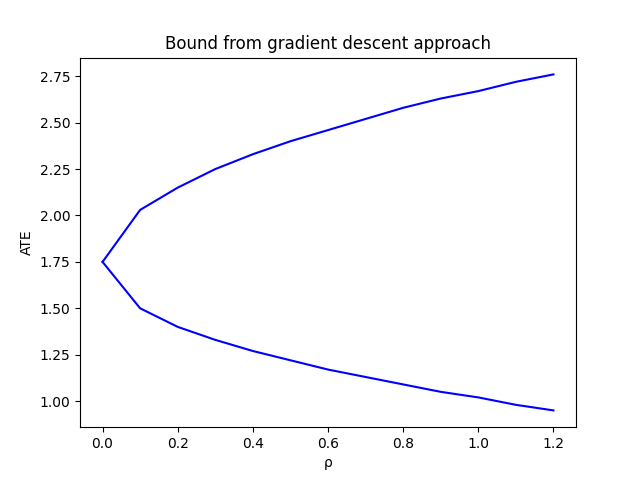
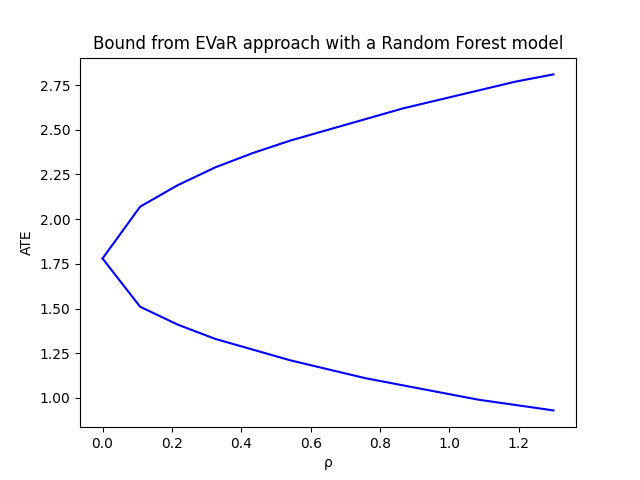
Final push

diff --git a/models/SensitivityModels.py b/models/SensitivityModels.py
@@ -326,7 +326,7 @@ def authors_algorithm(data, rho, treatment, is_lower_bound):
     data = data.sample(frac=1)
     data_splits = np.array_split(data, 3)
     bounds = [0, 0, 0]
-    eps = 0
+    eps = 1e-7
     x_features = list(filter(lambda c: 'X' in c, data.columns))
     layer_size = len(x_features)
     # For every subset of data
@@ -334,22 +334,24 @@ def authors_algorithm(data, rho, treatment, is_lower_bound):
         current_data = data_splits[i]
         next_data = data_splits[(i + 1) % 3]
         next_next_data = data_splits[(i + 2) % 3]
-        selected_curr_data = current_data[current_data["T0"] == treatment]
-        selected_next_data = next_data[next_data["T0"] == treatment]
-        selected_next_next_data = next_next_data[next_next_data["T0"] == treatment]
+        selected_curr_data0 = current_data[current_data["T0"] == 0]
+        selected_curr_data1 = current_data[current_data["T0"] == 1]
+        selected_next_data0 = next_data[next_data["T0"] == 0]
+        selected_next_data1 = next_data[next_data["T0"] == 1]
+        selected_next_next_data0 = next_next_data[next_next_data["T0"] == 0]
+        selected_next_next_data1 = next_next_data[next_next_data["T0"] == 1]
         # Estimate r(x) based on i+1 dataset
         p = len(next_data[next_data["T0"] == treatment]) / len(next_data)
         X = next_data.groupby(x_features, as_index=False).size()
-        Xt = selected_next_data.groupby(x_features, as_index=False).size()
+        Xt = current_data[current_data["T0"] == treatment].groupby(x_features, as_index=False).size()
         # Assign each sample a r(x) value
-        r = torch.nn.Sequential(torch.nn.Linear(layer_size, layer_size), torch.nn.ReLU(),
-                                torch.nn.Linear(layer_size, 1))
+        r = torch.nn.Linear(layer_size, 1)
         r_optim = torch.optim.Adam(r.parameters(), weight_decay=1e-3)
         criterion = torch.nn.MSELoss()
         for _ in range(500):
-            batch = selected_next_data.sample(frac=0.2)
+            batch = next_data.sample(frac=0.2)
             x = torch.Tensor(batch[x_features].to_numpy())
-            selected_x = (batch[x_features].join(X, on=x_features, how='inner', lsuffix='l', rsuffix='r')[[*x_features, "size"]]).join(Xt, on=x_features, how='inner', lsuffix='l', rsuffix='r')[[*x_features, "sizel", "sizer"]]
+            selected_x = pd.merge(pd.merge(batch[x_features], X, on=x_features, how='inner', suffixes=('l', 'r'))[[*x_features, "size"]], Xt, on=x_features, how='inner', suffixes=('l', 'r'))[[*x_features, "sizel", "sizer"]]
             propensity = torch.Tensor((selected_x["sizer"]/ selected_x["sizel"]).to_numpy())
             r_optim.zero_grad()
             target = (1 - propensity) * p / ((1 - p) * propensity)
@@ -358,31 +360,31 @@ def authors_algorithm(data, rho, treatment, is_lower_bound):
             loss.backward()
             r_optim.step()
         # Estimate the nuisance parameters using a NN
-        alpha_model = torch.nn.Sequential(torch.nn.Linear(layer_size, layer_size), torch.nn.ReLU(),
-                                          torch.nn.Linear(layer_size, 1))
-        eta_model = torch.nn.Sequential(torch.nn.Linear(layer_size, layer_size), torch.nn.ReLU(),
-                                        torch.nn.Linear(layer_size, 1))
-        alpha_optim = torch.optim.Adam(alpha_model.parameters(), weight_decay=1e-3)
-        eta_optim = torch.optim.Adam(eta_model.parameters(), weight_decay=1e-3)
+        alpha_model = torch.nn.Linear(layer_size, 1)
+        alpha_model.weight = torch.nn.Parameter(torch.ones_like(alpha_model.weight))
+        alpha_model.bias = torch.nn.Parameter(torch.ones_like(alpha_model.weight))
+        eta_model = torch.nn.Linear(layer_size, 1)
+        params = list(alpha_model.parameters())
+        params.extend(list(eta_model.parameters()))
+        optimizer = torch.optim.Adam(params, weight_decay=0)
+        # eta_optim = torch.optim.Adam(eta_model.parameters(), weight_decay=0)
         # Do 200 steps on randomized batches from i+1 data
-        for _ in range(5_000):
-            batch = selected_next_data.sample(frac=0.2)
+        for _ in range(20_000):
+            batch = selected_next_data1.sample(frac=1) if treatment == 0 else selected_next_data0.sample(frac=1)
             x = torch.Tensor(batch[x_features].to_numpy())
             y = (1 if is_lower_bound else -1) * torch.Tensor(batch["Y0"].to_numpy()).unsqueeze(dim=-1)
-            alpha_optim.zero_grad()
-            eta_optim.zero_grad()
+            optimizer.zero_grad()
             alpha = alpha_model(x)**2 + 0.1
             eta = eta_model(x)
             loss = torch.mean(alpha * torch.exp((y + eta) / (-alpha-eps) - 1) + eta + alpha * rho)
             loss.backward()
-            alpha_optim.step()
-            eta_optim.step()
+            optimizer.step()
         # Use regression to estimate H(X, Y) given X from i+2 dataset
         regressor = torch.nn.Linear(layer_size, 1)
         regressor_optim = torch.optim.Adam(regressor.parameters(), weight_decay=1e-3)
         criterion = torch.nn.MSELoss()
         for _ in range(1_000):
-            batch = selected_next_next_data.sample(frac=0.2)
+            batch = selected_next_next_data1.sample(frac=1) if treatment == 0 else selected_next_next_data0.sample(frac=1)
             x = torch.Tensor(batch[x_features].to_numpy())
             y = (1 if is_lower_bound else -1) * torch.Tensor(batch["Y0"].to_numpy()).unsqueeze(dim=-1)
             with torch.no_grad():
@@ -395,24 +397,24 @@ def authors_algorithm(data, rho, treatment, is_lower_bound):
             loss.backward()
             regressor_optim.step()
         # Compute the expected bound using H(X,Y) and h(X)
-        x = torch.Tensor(selected_curr_data[x_features].to_numpy())
-        y = (1 if is_lower_bound else -1) * torch.Tensor(selected_curr_data["Y0"].to_numpy()).unsqueeze(dim=-1)
-        mean_regressor = torch.mean(regressor(x).detach())
-        alpha = alpha_model(x)**2 + 0.1
-        eta = eta_model(x)
-        mean_diff = torch.mean(r(x) * (alpha * torch.exp((y + eta) / (-alpha-eps) - 1) + eta + alpha * rho - regressor(x)))
+        dataset = selected_curr_data1 if treatment == 0 else selected_curr_data0
+        x0 = torch.Tensor(selected_curr_data0[x_features].to_numpy())
+        x1 = torch.Tensor(selected_curr_data1[x_features].to_numpy())
+        y = (1 if is_lower_bound else -1) * torch.Tensor(dataset["Y0"].to_numpy()).unsqueeze(dim=-1)
+        mean_regressor = torch.mean(regressor(x0 if treatment == 0 else x1).detach())
+        alpha = alpha_model(x1 if treatment == 0 else x0)**2 + 0.1
+        eta = eta_model(x1 if treatment == 0 else x0)
+        mean_diff = torch.mean(r(x1 if treatment == 0 else x0) * (alpha * torch.exp((y + eta) / (-alpha-eps) - 1) + eta + alpha * rho - regressor(x1 if treatment == 0 else x0)))
         bounds[i] = (mean_diff + mean_regressor).detach().item()
     # Return average of the three estimated bounds
-    return -np.mean(bounds)
+    return (-1 if is_lower_bound else 1)*np.mean(bounds)
 
 def get_author_algorithm_bounds(data, rho):
-    mu_0_obs = data[data["T0"] == 0]["Y0"].mean()
-    mu_1_obs = data[data["T0"] == 1]["Y0"].mean()
-    mu_0_0 = authors_algorithm(data, rho, 0, False)
-    mu_0_1 = authors_algorithm(data, rho, 0, True)
-    mu_1_0 = authors_algorithm(data, rho, 1, False)
-    mu_1_1 = authors_algorithm(data, rho, 1, True)
-    return mu_1_obs - mu_1_0 + mu_0_obs - mu_0_1, mu_1_obs - mu_1_1 + mu_0_obs - mu_0_0
+    mu_0_1_l = authors_algorithm(data, rho, 0, True)
+    mu_0_1_u = authors_algorithm(data, rho, 0, False)
+    mu_1_0_l = authors_algorithm(data, rho, 1, True)
+    mu_1_0_u = authors_algorithm(data, rho, 1, False)
+    return mu_0_1_l - mu_1_0_u, mu_0_1_u - mu_1_0_l
 
 
 def bounds_creator(data, sensitivity_model, sensitivity_measure):

diff --git a/regular_setting_main.py b/regular_setting_main.py
@@ -20,7 +20,7 @@ def create_generator(u_prob, x_effect, t_effect, y_effect, dim=1, base_x_prob=0.
         df = pd.read_csv(path)
         return df, path
     # General settings
-    n_rows = 30_000
+    n_rows = 3_000_000
     n_jobs = 30
     sizes = {
         "U": 1,
@@ -100,7 +100,7 @@ def main2():
     # df, path = create_generator(0.25, 0, -0.3, 1)
     df, path = create_generator(0.25, 0, -0.3, 1, dim=3)
     # Generate counterfactuals and save
-    # path = './csv_files/synthetic_data_random_forest.csv'
+    # path = './csv_files/synthetic_data_random_forest_dim3.csv'
     # if not os.path.exists(path):
     #     # Train Random Forest
     #     X = df['X0'].to_numpy().reshape(-1, 1)
@@ -120,7 +120,7 @@ def main2():
     #         copy_of_data.loc[len(copy_of_data)] = [u, x, 0, round(y0, 1)]
     #         copy_of_data.loc[len(copy_of_data)] = [u, x, 1, round(y1, 1)]
     #     copy_of_data.to_csv(path)
-    # data = pd.read_csv('./csv_files/synthetic_data_random_forest.csv')
+    # # data = pd.read_csv('./csv_files/synthetic_data_random_forest.csv')
     data = pd.read_csv(path)
     # # Train Gaussian Mixture models
     # k = 1
@@ -144,7 +144,7 @@ def main2():
     #     'treated': [treated_gauss0.covariances_, treated_gauss1.covariances_],
     #     'control': [control_gauss0.covariances_, control_gauss1.covariances_]
     # }
-    # # Generate data based on the gaussian
+    # Generate data based on the gaussian
     # path = './csv_files/synthetic_data_gaussian.csv'
     # if not os.path.exists(path):
     #     copy_of_data = pd.DataFrame([], columns=df.columns)
@@ -173,7 +173,7 @@ def main2():
     author_upper05 = []
     gaussian_lower = []
     gaussian_upper = []
-    num_runs = 10
+    # num_runs = 10
     # for rho in tqdm(rhos):
     #     lower_temp = []
     #     upper_temp = []
@@ -220,12 +220,12 @@ def main2():
     plt.ylabel('ATE')
     plt.title('Bound from constraint programing approach')
     plt.show()
-    # #
+    #
     plt.plot(rhos, closed_f_upper, color='blue')
     plt.plot(rhos, closed_f_lower, color='blue')
     plt.xlabel('ρ')
     plt.ylabel('ATE')
-    plt.title('Bound from gradient descent approach with a Random Forest model')
+    plt.title('Bound from EVaR approach')
     # plt.title('Bound from gradient descent approach with a Gaussian Mixture model')
     plt.show()
     # #
@@ -236,24 +236,27 @@ def main2():
     # plt.title('Bound from authors approach with a Random Forest model')
     # plt.show()
     #
-    # # plt.plot(rhos, gaussian_upper, color='red')
-    # # plt.plot(rhos, gaussian_lower, color='red')
-    # # plt.xlabel('ρ')
-    # # plt.ylabel('ATE')
-    # # plt.title('Bound from closed form approach with a Gaussian mixture model')
-    # # plt.show()
-    # # Print out results into a table
-    # # print(f"""
-    # # \\(\\rho\\)&  0 & 0.1 & 0.2 & 0.3 & 0.4 & 0.5 & 0.6 & 0.7 & 0.8 & 0.9 & 1 & 1.1 & 1.2\\\\
-    # #          \hline
-    # #          CF Upper & {'&'.join(list(map(str,gaussian_upper)))} \\\\
-    # #          \hline
-    # #          CF Lower & {'&'.join(list(map(str,gaussian_lower)))} \\\\
-    # #          \hline
-    # #          GD Upper & {'&'.join(list(map(str,closed_f_upper)))}\\\\
-    # #          \hline
-    # #          GD Lower & {'&'.join(list(map(str,closed_f_lower)))}
-    # # """)
+    # plt.plot(rhos, gaussian_upper, color='red', label="Closed Form")
+    # plt.plot(rhos, gaussian_lower, color='red')
+    # plt.plot(rhos, closed_f_upper, color='blue', label="EVaR approach")
+    # plt.plot(rhos, closed_f_lower, color='blue')
+    # plt.xlabel('ρ')
+    # plt.ylabel('ATE')
+    # plt.legend()
+    # plt.title('Bound from closed form and EVaR approaches using random forest')
+    # plt.show()
+    # # # Print out results into a table
+    # # # print(f"""
+    # # # \\(\\rho\\)&  0 & 0.1 & 0.2 & 0.3 & 0.4 & 0.5 & 0.6 & 0.7 & 0.8 & 0.9 & 1 & 1.1 & 1.2\\\\
+    # # #          \hline
+    # # #          CF Upper & {'&'.join(list(map(str,gaussian_upper)))} \\\\
+    # # #          \hline
+    # # #          CF Lower & {'&'.join(list(map(str,gaussian_lower)))} \\\\
+    # # #          \hline
+    # # #          GD Upper & {'&'.join(list(map(str,closed_f_upper)))}\\\\
+    # # #          \hline
+    # # #          GD Lower & {'&'.join(list(map(str,closed_f_lower)))}
+    # # # """)
 
 
 def main3():
@@ -302,8 +305,8 @@ def main3():
 
 
 if __name__ == '__main__':
-    # main2()
-    main3()
+    main2()
+    # main3()
     # rosenbaum = RosenbaumSensitivityModel("Rosenbaum Sensitivity Model")
     # rosenbaum_metrics = {}
     # msm = MarginalSensitivityModel("Marginal Sensitivity Model")
